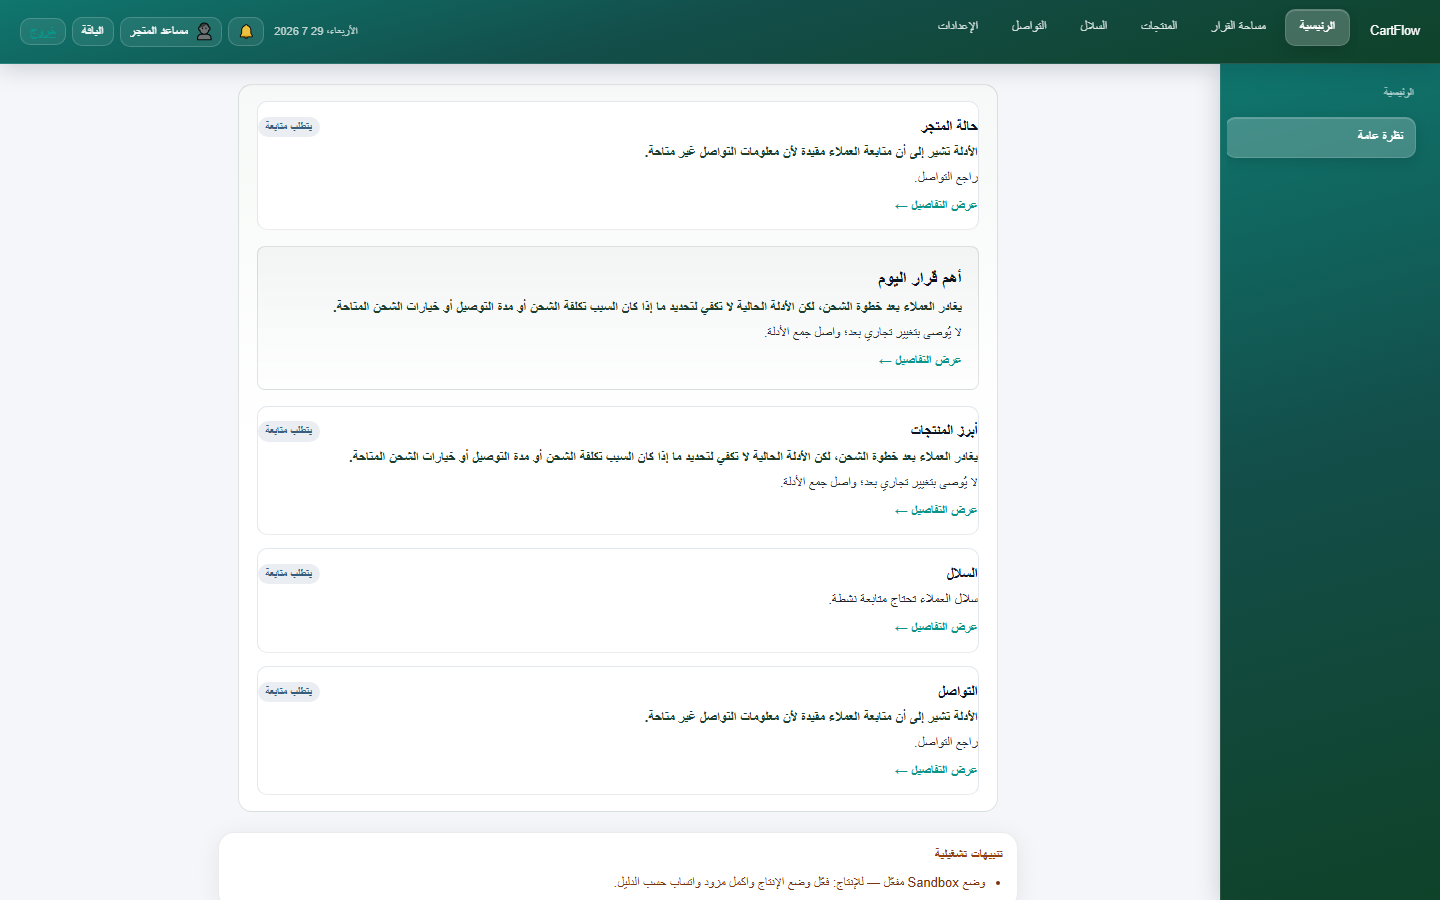
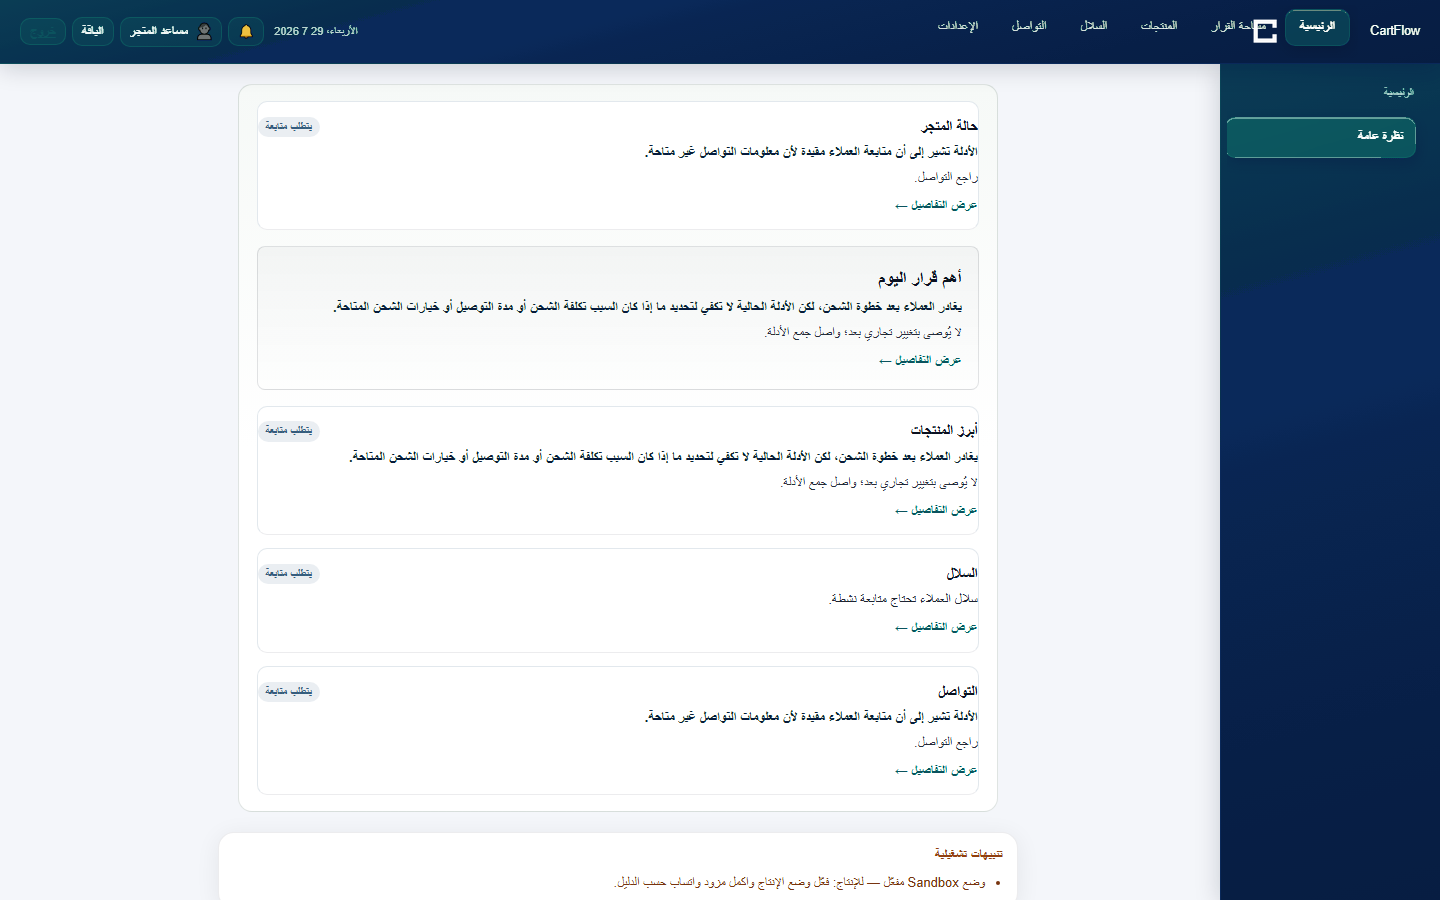
feat(landing): Final Polish V1 — brand dashboard, single hero product
Recolor dashboard chrome to navy/teal with Concept 13 mark, remove duplicate dashboard section, tighten brand lockups, update hero label, and recolor phone illustration with headset cue.

Changed region(s): [[0.0, 0.0, 1.0, 1.0]]

diff --git a/templates/cartflow_landing.html b/templates/cartflow_landing.html
@@ -15,7 +15,7 @@
   <link rel="preconnect" href="https://fonts.googleapis.com" />
   <link rel="preconnect" href="https://fonts.gstatic.com" crossorigin />
   <link href="https://fonts.googleapis.com/css2?family=Tajawal:wght@400;500;700;800&display=swap" rel="stylesheet" />
-  <link rel="stylesheet" href="/static/cartflow_landing_v2.css?v=v4hero" />
+  <link rel="stylesheet" href="/static/cartflow_landing_v2.css?v=finalpolish1" />
 </head>
 <body class="cf-lp">
 
@@ -78,7 +78,7 @@
       </div>
       <div class="cf-shell cf-hero__grid">
         <div class="cf-hero__copy">
-          <p class="cf-kicker cf-kicker--on-dark">منصة التجارة التشغيلية</p>
+          <p class="cf-kicker cf-kicker--on-dark">التجارة التشغيلية</p>
           <h1 class="cf-h1" id="hero-title">يفهم متجرك قبل أن يحاول استعادة السلة</h1>
           <p class="cf-lead cf-lead--on-dark">
             لا يكتفي باسترجاع السلات المتروكة — يكشف سبب التردد، ويبني معرفة من الأدلة، ويقدّم إرشادًا عمليًا لتحسين المبيعات بشكل مستدام.
@@ -89,19 +89,22 @@
           </div>
         </div>
 
-        <aside class="cf-hero__stage" aria-label="لوحة المتجر في CartFlow">
+        <aside class="cf-hero__stage" id="dashboard" aria-label="لوحة المتجر في CartFlow">
           <div class="cf-hero__glow" aria-hidden="true"></div>
           <div class="cf-hero__frame">
             <div class="cf-hero__frame-bar" aria-hidden="true">
               <span class="cf-hero__frame-dot"></span>
               <span class="cf-hero__frame-dot"></span>
               <span class="cf-hero__frame-dot"></span>
-              <span class="cf-hero__frame-url">لوحة المتجر</span>
+              <span class="cf-hero__frame-brand">
+                <img src="/static/img/brand/concept_13_mark.svg?v=fp1" alt="" width="14" height="14" />
+                <span>لوحة المتجر</span>
+              </span>
             </div>
             <div class="cf-product">
               <img
                 class="cf-product__shot"
-                src="/static/img/landing_v1/dashboard.png"
+                src="/static/img/landing_v1/dashboard.png?v=fp1"
                 alt="لوحة المتجر في CartFlow — ملخص تنفيذي وبطاقات القرار"
                 width="1600"
                 height="1000"
@@ -300,11 +303,21 @@
               <div class="cf-storefront__notch" aria-hidden="true"></div>
               <div class="cf-storefront__screen">
                 <div class="cf-store-ui__bar">
-                  <span class="cf-store-ui__logo">متجرك</span>
+                  <span class="cf-store-ui__logo">
+                    <img class="cf-store-ui__mark" src="/static/img/brand/concept_13_mark.svg?v=fp1" alt="" width="16" height="16" />
+                    متجرك
+                  </span>
                   <span class="cf-store-ui__cart" aria-hidden="true">١</span>
                 </div>
                 <div class="cf-store-ui__product">
-                  <div class="cf-store-ui__swatch" aria-hidden="true"></div>
+                  <div class="cf-store-ui__swatch" aria-hidden="true">
+                    <svg class="cf-store-ui__headset" viewBox="0 0 48 48" fill="none" aria-hidden="true">
+                      <path d="M12 26v-4a12 12 0 0 1 24 0v4" stroke="currentColor" stroke-width="2.4" stroke-linecap="round"/>
+                      <rect x="8" y="24" width="8" height="12" rx="3" fill="currentColor"/>
+                      <rect x="32" y="24" width="8" height="12" rx="3" fill="currentColor"/>
+                      <path d="M36 36v2a4 4 0 0 1-4 4h-6" stroke="currentColor" stroke-width="2.2" stroke-linecap="round"/>
+                    </svg>
+                  </div>
                   <p class="cf-store-ui__name">TrueSound Pro</p>
                   <p class="cf-store-ui__meta">في السلة · لم يُكمل الشراء بعد</p>
                   <p class="cf-store-ui__price">٤٤٩ ر.س</p>
@@ -324,45 +337,7 @@
       </div>
     </section>
 
-    <!-- 6. Dashboard -->
-    <section class="cf-sec" id="dashboard" data-lp-view="dashboard_section_viewed" data-lp-section="dashboard" aria-labelledby="dashboard-title">
-      <div class="cf-shell">
-        <div class="cf-stage-head cf-stage-head--center">
-          <p class="cf-kicker">لوحة المتجر</p>
-          <h2 class="cf-h2" id="dashboard-title">ما تراه كل يوم كتاجر</h2>
-          <p class="cf-lead">ملخص تنفيذي، طابور انتباه، طبقة معرفة، وتوصيات عندما يكفي الدليل — في واجهة واحدة.</p>
-        </div>
-        <div class="cf-dash-highlights" aria-label="أبرز ما في اللوحة">
-          <span class="cf-pill">الملخص التنفيذي</span>
-          <span class="cf-pill">طابور الانتباه</span>
-          <span class="cf-pill">طبقة المعرفة</span>
-          <span class="cf-pill">التوصيات</span>
-        </div>
-        <div class="cf-product-stage cf-product-stage--lite cf-product-stage--compose">
-          <div class="cf-product cf-product--wide">
-            <img
-              class="cf-product__shot"
-              src="/static/img/landing_v1/dashboard.png"
-              alt="لوحة المتجر في CartFlow — نظرة تشغيلية يومية"
-              width="1600"
-              height="1000"
-              loading="lazy"
-              decoding="async"
-            />
-          </div>
-          <div class="cf-compose-card cf-compose-card--1 cf-ds-card" aria-hidden="true">
-            <p class="cf-compose-card__k">الملخص التنفيذي</p>
-            <p class="cf-compose-card__t">ماذا يحتاج متجرك اليوم؟</p>
-          </div>
-          <div class="cf-compose-card cf-compose-card--2 cf-ds-card" aria-hidden="true">
-            <p class="cf-compose-card__k">طابور الانتباه</p>
-            <p class="cf-compose-card__t">ما يستحق المتابعة الآن</p>
-          </div>
-        </div>
-      </div>
-    </section>
-
-    <!-- 7. Knowledge Layer -->
+    <!-- 6. Knowledge Layer -->
     <section class="cf-sec cf-sec--tight" id="knowledge" data-lp-view="knowledge_section_viewed" data-lp-section="knowledge" aria-labelledby="knowledge-title">
       <div class="cf-shell">
         <div class="cf-knowledge">

diff --git a/static/cartflow_landing_v2.css b/static/cartflow_landing_v2.css
@@ -2720,3 +2720,119 @@ body.cf-lp {
     transform: none;
   }
 }
+
+/* ========== Landing Final Polish V1 ========== */
+.cf-nav__brand {
+  gap: 9px;
+}
+
+.cf-nav__logo--mark {
+  height: 30px;
+  width: 30px;
+  flex: 0 0 auto;
+}
+
+.cf-brand-wordmark {
+  line-height: 1;
+}
+
+.cf-hero--v4 .cf-hero__frame-url {
+  display: none;
+}
+
+.cf-hero--v4 .cf-hero__frame-brand {
+  margin-inline-start: 8px;
+  flex: 1;
+  display: inline-flex;
+  align-items: center;
+  justify-content: center;
+  gap: 7px;
+  font-size: 11px;
+  font-weight: 600;
+  color: rgba(255, 255, 255, 0.62);
+  letter-spacing: 0.01em;
+  padding: 3px 12px;
+  border-radius: 999px;
+  background: rgba(255, 255, 255, 0.06);
+}
+
+.cf-hero--v4 .cf-hero__frame-brand img {
+  width: 14px;
+  height: 14px;
+  display: block;
+  filter: brightness(0) invert(1);
+  opacity: 0.85;
+}
+
+.cf-foot__brand-lockup img {
+  height: 26px;
+  width: 26px;
+  flex: 0 0 auto;
+}
+
+/* Phone illustration — brand colors + headset */
+.cf-storefront__phone {
+  background: linear-gradient(160deg, #0f2a52 0%, #082048 55%, #041428 100%);
+  border-color: rgba(24, 176, 168, 0.28);
+  box-shadow:
+    0 0 0 1px rgba(8, 32, 72, 0.35),
+    0 32px 64px rgba(8, 32, 72, 0.32);
+}
+
+.cf-storefront__notch {
+  background: rgba(255, 255, 255, 0.12);
+}
+
+.cf-store-ui__logo {
+  display: inline-flex;
+  align-items: center;
+  gap: 7px;
+  color: var(--cf-navy);
+}
+
+.cf-store-ui__mark {
+  width: 16px;
+  height: 16px;
+  display: block;
+  flex: 0 0 auto;
+}
+
+.cf-store-ui__cart {
+  background: rgba(24, 176, 168, 0.12);
+  color: var(--cf-teal-deep);
+}
+
+.cf-store-ui__swatch {
+  position: relative;
+  display: grid;
+  place-items: center;
+  background:
+    radial-gradient(circle at 30% 28%, rgba(24, 176, 168, 0.35) 0%, transparent 48%),
+    linear-gradient(145deg, #dce8f5 0%, #b7cfe6 42%, #082048 100%);
+}
+
+.cf-store-ui__headset {
+  width: 54px;
+  height: 54px;
+  color: rgba(255, 255, 255, 0.88);
+  filter: drop-shadow(0 6px 12px rgba(8, 32, 72, 0.28));
+}
+
+.cf-store-ui__price {
+  color: var(--cf-navy);
+}
+
+.cf-widget-card {
+  border-color: rgba(8, 32, 72, 0.1);
+  box-shadow: 0 16px 36px rgba(8, 32, 72, 0.12);
+}
+
+.cf-widget-choice--active {
+  border-color: rgba(24, 176, 168, 0.45);
+  background: rgba(24, 176, 168, 0.1);
+  color: var(--cf-teal-deep);
+}
+
+.cf-storefront__glow {
+  background: radial-gradient(circle, rgba(24, 176, 168, 0.22) 0%, transparent 70%);
+}

diff --git a/scripts/_recolor_landing_dashboard_brand.py b/scripts/_recolor_landing_dashboard_brand.py
@@ -1,0 +1,95 @@
+"""Recolor landing dashboard.png chrome from forest green to navy + teal."""
+from __future__ import annotations
+
+from pathlib import Path
+
+from PIL import Image, ImageDraw
+import colorsys
+
+SRC = Path(__file__).resolve().parents[1] / "static" / "img" / "landing_v1" / "dashboard.png"
+MARK = Path(__file__).resolve().parents[1] / "static" / "img" / "brand" / "concept_13_mark.png"
+
+NAVY = (8, 32, 72)
+NAVY_MID = (12, 48, 96)
+TEAL = (24, 176, 168)
+TEAL_SOFT = (14, 120, 118)
+
+
+def is_chrome_green(r: int, g: int, b: int) -> bool:
+    if g < 40:
+        return False
+    # Forest / mint chrome family in the current screenshot
+    return g > r + 8 and g >= b - 8 and r < 100 and g < 170 and b < 150
+
+
+def map_chrome(r: int, g: int, b: int) -> tuple[int, int, int]:
+    # Luminance of source green drives navy→teal mix for active chips
+    lum = (0.2126 * r + 0.7152 * g + 0.0722 * b) / 255.0
+    h, s, v = colorsys.rgb_to_hsv(r / 255, g / 255, b / 255)
+    # Brighter / more saturated greens (active pills) → teal-tinted navy
+    if lum > 0.38 or (s > 0.35 and g > 95):
+        t = min(1.0, (lum - 0.28) / 0.35)
+        nr = int(NAVY[0] + (TEAL_SOFT[0] - NAVY[0]) * t * 0.85)
+        ng = int(NAVY[1] + (TEAL_SOFT[1] - NAVY[1]) * t * 0.85)
+        nb = int(NAVY[2] + (TEAL_SOFT[2] - NAVY[2]) * t * 0.55)
+        # preserve a touch of highlight
+        boost = max(0.0, (v - 0.25) * 0.35)
+        nr = min(255, int(nr + (TEAL[0] - nr) * boost))
+        ng = min(255, int(ng + (TEAL[1] - ng) * boost))
+        nb = min(255, int(nb + (TEAL[2] - nb) * boost))
+        return nr, ng, nb
+    # Dark chrome → navy, keep slight value variation
+    shade = max(0.55, min(1.15, v / 0.28))
+    return (
+        min(255, int(NAVY[0] * shade + (NAVY_MID[0] - NAVY[0]) * max(0, shade - 1) * 2)),
+        min(255, int(NAVY[1] * shade + (NAVY_MID[1] - NAVY[1]) * max(0, shade - 1) * 2)),
+        min(255, int(NAVY[2] * shade + (NAVY_MID[2] - NAVY[2]) * max(0, shade - 1) * 2)),
+    )
+
+
+def recolor(im: Image.Image) -> Image.Image:
+    out = im.copy()
+    px = out.load()
+    w, h = out.size
+    for y in range(h):
+        for x in range(w):
+            r, g, b, a = px[x, y]
+            if a < 8:
+                continue
+            if is_chrome_green(r, g, b):
+                nr, ng, nb = map_chrome(r, g, b)
+                px[x, y] = (nr, ng, nb, a)
+    return out
+
+
+def stamp_mark(im: Image.Image) -> Image.Image:
+    """Place Concept 13 mark beside the CartFlow wordmark in the top chrome."""
+    if not MARK.exists():
+        return im
+    mark = Image.open(MARK).convert("RGBA")
+    # Header wordmark sits near top-right in RTL chrome; stamp just before it
+    size = 34
+    mark = mark.resize((size, size), Image.Resampling.LANCZOS)
+    # Make mark white for dark navy chrome
+    px = mark.load()
+    for y in range(mark.height):
+        for x in range(mark.width):
+            r, g, b, a = px[x, y]
+            if a > 20:
+                px[x, y] = (255, 255, 255, a)
+    # Approximate CartFlow text position from prior captures (~x 1280-1360, y ~18)
+    x, y = 1248, 14
+    im.alpha_composite(mark, (x, y))
+    return im
+
+
+def main() -> None:
+    im = Image.open(SRC).convert("RGBA")
+    out = recolor(im)
+    out = stamp_mark(out)
+    out.save(SRC, optimize=True)
+    print("recolored", SRC, out.size)
+
+
+if __name__ == "__main__":
+    main()

diff --git a/routes/public.py b/routes/public.py
@@ -26,7 +26,7 @@ def home(request: Request):
     response.headers["Cache-Control"] = "no-store, no-cache, must-revalidate, max-age=0"
     response.headers["Pragma"] = "no-cache"
     response.headers["X-CartFlow-Git-Sha"] = resolve_deploy_git_sha(short=False)
-    response.headers["X-CartFlow-Landing"] = "landing-v4-hero-first"
+    response.headers["X-CartFlow-Landing"] = "landing-final-polish-v1"
     return response
 
 
